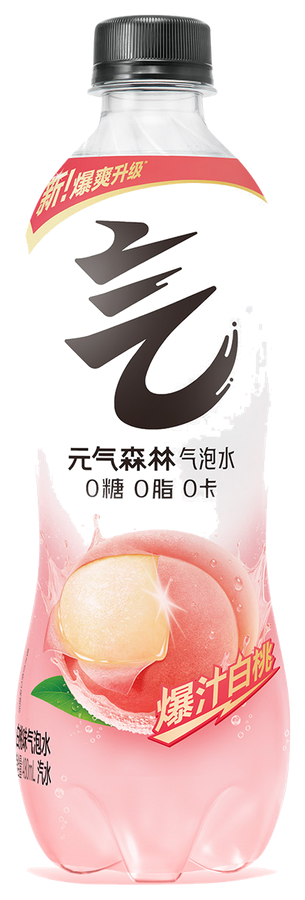
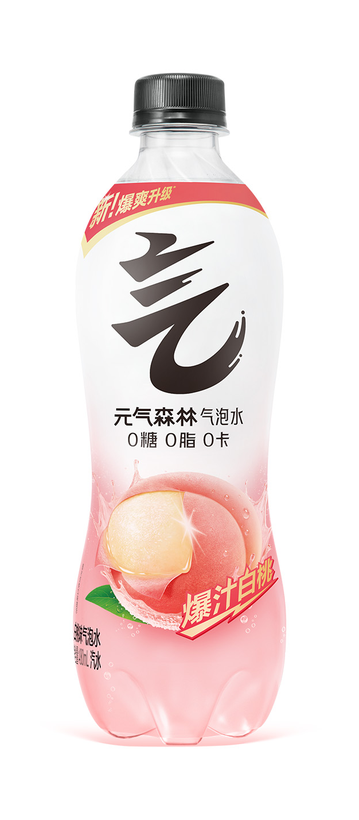
Preserve product photo whites

diff --git a/assets/index-BJ3lmwiN.css b/assets/index-BJ3lmwiN.css
@@ -1,0 +1,1 @@
+:root{font-family:Inter,PingFang SC,Microsoft YaHei,system-ui,-apple-system,BlinkMacSystemFont,sans-serif;color:#111827;background:#f5fbff;font-synthesis:none;text-rendering:optimizeLegibility;-webkit-font-smoothing:antialiased;--panel: rgba(255, 255, 255, .9);--line: rgba(17, 24, 39, .11);--muted: #64748b;--blue: #0f7ccf;--green: #078465;--yellow: #f4b83f;--red: #e64a3a}*{box-sizing:border-box}html{min-width:320px;background:linear-gradient(180deg,#ffffffe0,#ebf9ffe6),repeating-linear-gradient(90deg,rgba(14,116,144,.08) 0 1px,transparent 1px 72px)}body{margin:0;min-width:320px;overflow-x:hidden}button{font:inherit}button:focus-visible{outline:3px solid rgba(15,124,207,.55);outline-offset:3px}.screen{min-height:100svh;width:100%;padding:20px}.cover-screen,.quiz-screen,.calculating-screen{display:grid;place-items:center}.cover-panel,.quiz-panel,.calculating-panel,.result-card{width:min(100%,720px);border:1px solid var(--line);border-radius:8px;background:var(--panel);box-shadow:0 24px 70px #0f4c681f}.cover-panel{position:relative;overflow:hidden;padding:clamp(28px,7vw,56px)}.cooler-lights{display:grid;grid-template-columns:repeat(3,1fr);gap:12px;margin-bottom:clamp(36px,11vh,92px)}.cooler-lights span{height:8px;border-radius:999px;background:linear-gradient(90deg,#d8f8ff,#fff,#c8ecff);box-shadow:0 0 28px #36c4e899}.eyebrow{margin:0 0 12px;color:var(--green);font-size:.78rem;font-weight:800}.cover-panel h1{margin:0;color:#082f49;font-size:clamp(3rem,15vw,6.8rem);line-height:.88;letter-spacing:0;max-width:9ch}.cover-subtitle{margin:18px 0 0;color:#0f172a;font-size:clamp(1.25rem,5vw,2rem);font-weight:800}.cover-copy{margin:18px 0 28px;color:#334155;font-size:1rem;line-height:1.8}.primary-action{width:100%;min-height:56px;border:0;border-radius:8px;color:#fff;background:linear-gradient(135deg,#0f7ccf,#078465 70%,#f4b83f);box-shadow:0 14px 32px #0f7ccf40;cursor:pointer;font-size:1.05rem;font-weight:900;transition:transform .16s ease,filter .16s ease}.primary-action:hover{filter:brightness(1.03)}.primary-action:active{transform:translateY(2px) scale(.99)}.quiz-panel{padding:clamp(18px,5vw,36px)}.quiz-topline{display:flex;align-items:center;justify-content:space-between;gap:12px;color:#0f172a;font-weight:900}.back-button{min-height:40px;padding:0 12px;border:1px solid var(--line);border-radius:8px;color:#0f172a;background:#fff;cursor:pointer}.back-button:disabled{cursor:not-allowed;opacity:.42}.progress-track{height:10px;margin:18px 0 30px;overflow:hidden;border-radius:999px;background:#d8ecf6}.progress-fill{height:100%;border-radius:inherit;background:linear-gradient(90deg,#0f7ccf,#36b37e,#f4b83f);transition:width .24s ease}.question-title{margin:0 0 28px;color:#0f172a;font-size:clamp(1.55rem,6vw,2.4rem);line-height:1.28;letter-spacing:0}.option-list{display:grid;gap:12px}.option-button{display:grid;grid-template-columns:38px 1fr;align-items:center;gap:12px;min-height:76px;width:100%;padding:16px;border:1px solid rgba(15,23,42,.12);border-radius:8px;color:#10233f;background:#fff;box-shadow:0 10px 24px #0f4c6814;cursor:pointer;text-align:left;line-height:1.55;transition:transform .15s ease,border-color .15s ease,background-color .15s ease,box-shadow .15s ease}.option-button:hover{border-color:#0f7ccf61}.option-button:active,.option-button.is-selected{transform:translateY(2px) scale(.99);border-color:#0f7ccfcc;background:#ebf8ff;box-shadow:0 8px 18px #0f7ccf29}.option-id{display:inline-grid;place-items:center;width:34px;height:34px;border-radius:50%;color:#fff;background:#0f7ccf;font-weight:900}.calculating-panel{display:grid;justify-items:center;gap:22px;padding:42px 24px;text-align:center}.calculating-panel h1{margin:0;font-size:clamp(1.35rem,6vw,2rem);line-height:1.35}.scan-bottle{width:74px;height:150px;border:2px solid rgba(15,124,207,.35);border-radius:8px 8px 24px 24px;background:linear-gradient(180deg,#ffffffe0,#0f7ccf29),repeating-linear-gradient(180deg,transparent 0 15px,rgba(15,124,207,.18) 15px 17px);animation:scan .72s ease-in-out infinite alternate}@keyframes scan{0%{box-shadow:0 0 12px #0f7ccf2e}to{box-shadow:0 0 34px #0f7ccf80}}.result-screen{display:grid;gap:14px;justify-items:center;color:var(--result-ink);background:linear-gradient(180deg,color-mix(in srgb,var(--result-glow) 18%,#ffffff),transparent 44%),var(--result-base)}.result-hero{display:grid;grid-template-columns:minmax(0,1fr) auto;align-items:center;gap:14px;width:min(100%,720px);min-height:230px;padding:18px}.result-hero h1{margin:0;color:var(--result-ink);font-size:clamp(2.25rem,11vw,5rem);line-height:.95;letter-spacing:0}.personality-name{margin:12px 0 0;color:var(--result-accent);font-size:clamp(1.25rem,5vw,2rem);font-weight:900}.bottle-symbol{position:relative;display:grid;justify-items:center;width:clamp(96px,28vw,150px);min-width:92px;filter:drop-shadow(0 24px 32px rgba(0,0,0,.16))}.product-photo-stage{display:grid;place-items:center;width:clamp(96px,24vw,148px);min-width:92px;aspect-ratio:.78;padding:7px;border:1px solid rgba(255,255,255,.85);border-radius:8px;background:radial-gradient(circle at 50% 25%,rgba(255,255,255,.95),transparent 46%),linear-gradient(160deg,#ffffffb8,color-mix(in srgb,var(--bottle-glow) 18%,#ffffff));box-shadow:0 24px 42px #00000024,inset 0 0 26px #ffffffd9}.product-photo-stage img{display:block;width:94%;max-height:94%;object-fit:contain;filter:drop-shadow(0 18px 18px rgba(15,23,42,.18))}.product-photo-stage.is-duo{grid-template-columns:repeat(2,minmax(0,1fr));gap:4px;width:clamp(146px,36vw,230px);aspect-ratio:1.12}.product-photo-stage.is-duo img{min-width:0}.bottle-cap{width:42%;height:15px;border-radius:6px 6px 2px 2px;background:var(--bottle-accent)}.bottle-neck{width:34%;height:24px;background:linear-gradient(90deg,var(--bottle-glow),#ffffff,var(--bottle-glow))}.bottle-body{position:relative;width:100%;aspect-ratio:.62;overflow:hidden;border:2px solid rgba(255,255,255,.85);border-radius:8px 8px 28px 28px;background:radial-gradient(circle at 28% 20%,#ffffff 0 8%,transparent 9%),linear-gradient(140deg,#ffffff,var(--bottle-base) 35%,var(--bottle-glow))}.bottle-label{position:absolute;inset:42% 12% auto;display:grid;place-items:center;min-height:38px;border-radius:8px;color:var(--bottle-ink);background:#ffffffc7;font-weight:900}.bottle-mark{position:absolute;background:var(--bottle-accent)}.bottle-mark-one{width:18px;height:18px;right:18%;top:17%;border-radius:50%}.bottle-mark-two{width:32px;height:9px;left:15%;bottom:18%;border-radius:999px;transform:rotate(-18deg)}.bottle-symbol-bolt .bottle-mark-one,.bottle-symbol-spark .bottle-mark-one{border-radius:2px;transform:skew(-14deg) rotate(18deg)}.bottle-symbol-leaf .bottle-mark-one,.bottle-symbol-tea .bottle-mark-one,.bottle-symbol-petal .bottle-mark-one{border-radius:100% 0;transform:rotate(38deg)}.result-card{padding:18px}.result-card h2{margin:0 0 12px;font-size:1.08rem;letter-spacing:0}.quote-card{font-size:1rem;line-height:1.75}.quote-card p{margin:0}.quote-card p+p{margin-top:12px}.quote{color:var(--result-accent);font-size:1.2rem;font-weight:900;line-height:1.55}.match-summary{margin:0 0 14px;color:#0f172aad;font-size:.92rem}.reason-list{display:grid;gap:10px}.reason-item{display:grid;grid-template-columns:minmax(0,1fr) auto;gap:12px;padding:12px;border:1px solid rgba(15,23,42,.09);border-radius:8px;background:#ffffff94}.reason-item h3,.reason-item p{margin:0}.reason-item h3{font-size:1rem}.reason-item p{margin-top:6px;color:#0f172ab8;font-size:.92rem;line-height:1.6}.reason-item span{align-self:start;color:var(--result-accent);font-weight:900;white-space:nowrap}.dimension-bars{display:grid;gap:12px}.dimension-row{display:grid;gap:7px}.dimension-row-head{display:flex;justify-content:space-between;gap:12px;color:#0f172ad6;font-size:.94rem}.score-track{height:10px;overflow:hidden;border-radius:999px;background:#0f172a1a}.score-fill{height:100%;border-radius:inherit;background:linear-gradient(90deg,var(--result-accent),var(--result-glow))}.tag-section{display:flex;flex-wrap:wrap;gap:8px;width:min(100%,720px)}.tag-section span{padding:8px 10px;border:1px solid rgba(15,23,42,.1);border-radius:8px;color:var(--result-ink);background:#ffffffa6;font-size:.9rem;font-weight:800}.restart-action{width:min(100%,720px);margin:2px 0 16px;background:linear-gradient(135deg,var(--result-accent),var(--result-glow))}@media (min-width: 760px){.screen{padding:32px}.cover-panel{min-height:620px}.option-list{gap:14px}.result-card,.result-hero{padding:24px}}@media (max-width: 390px){.screen{padding:14px}.quiz-panel{padding:16px}.option-button{grid-template-columns:32px 1fr;gap:10px;padding:14px 12px}.option-id{width:30px;height:30px}.result-hero{grid-template-columns:minmax(0,1fr) 92px}.product-photo-stage{width:86px;min-width:82px}.product-photo-stage.is-duo{width:118px}.reason-item{grid-template-columns:1fr}}

diff --git a/index.html b/index.html
@@ -8,8 +8,8 @@
       content="完成20道生活情境题，测出最像你的那瓶饮料。"
     />
     <title>What Drink Are You</title>
-    <script type="module" crossorigin src="/YQBI/assets/index-B80Y1qqi.js"></script>
-    <link rel="stylesheet" crossorigin href="/YQBI/assets/index-ewKUlIhI.css">
+    <script type="module" crossorigin src="/YQBI/assets/index-GxPlqL4G.js"></script>
+    <link rel="stylesheet" crossorigin href="/YQBI/assets/index-BJ3lmwiN.css">
   </head>
   <body>
     <div id="root"></div>
